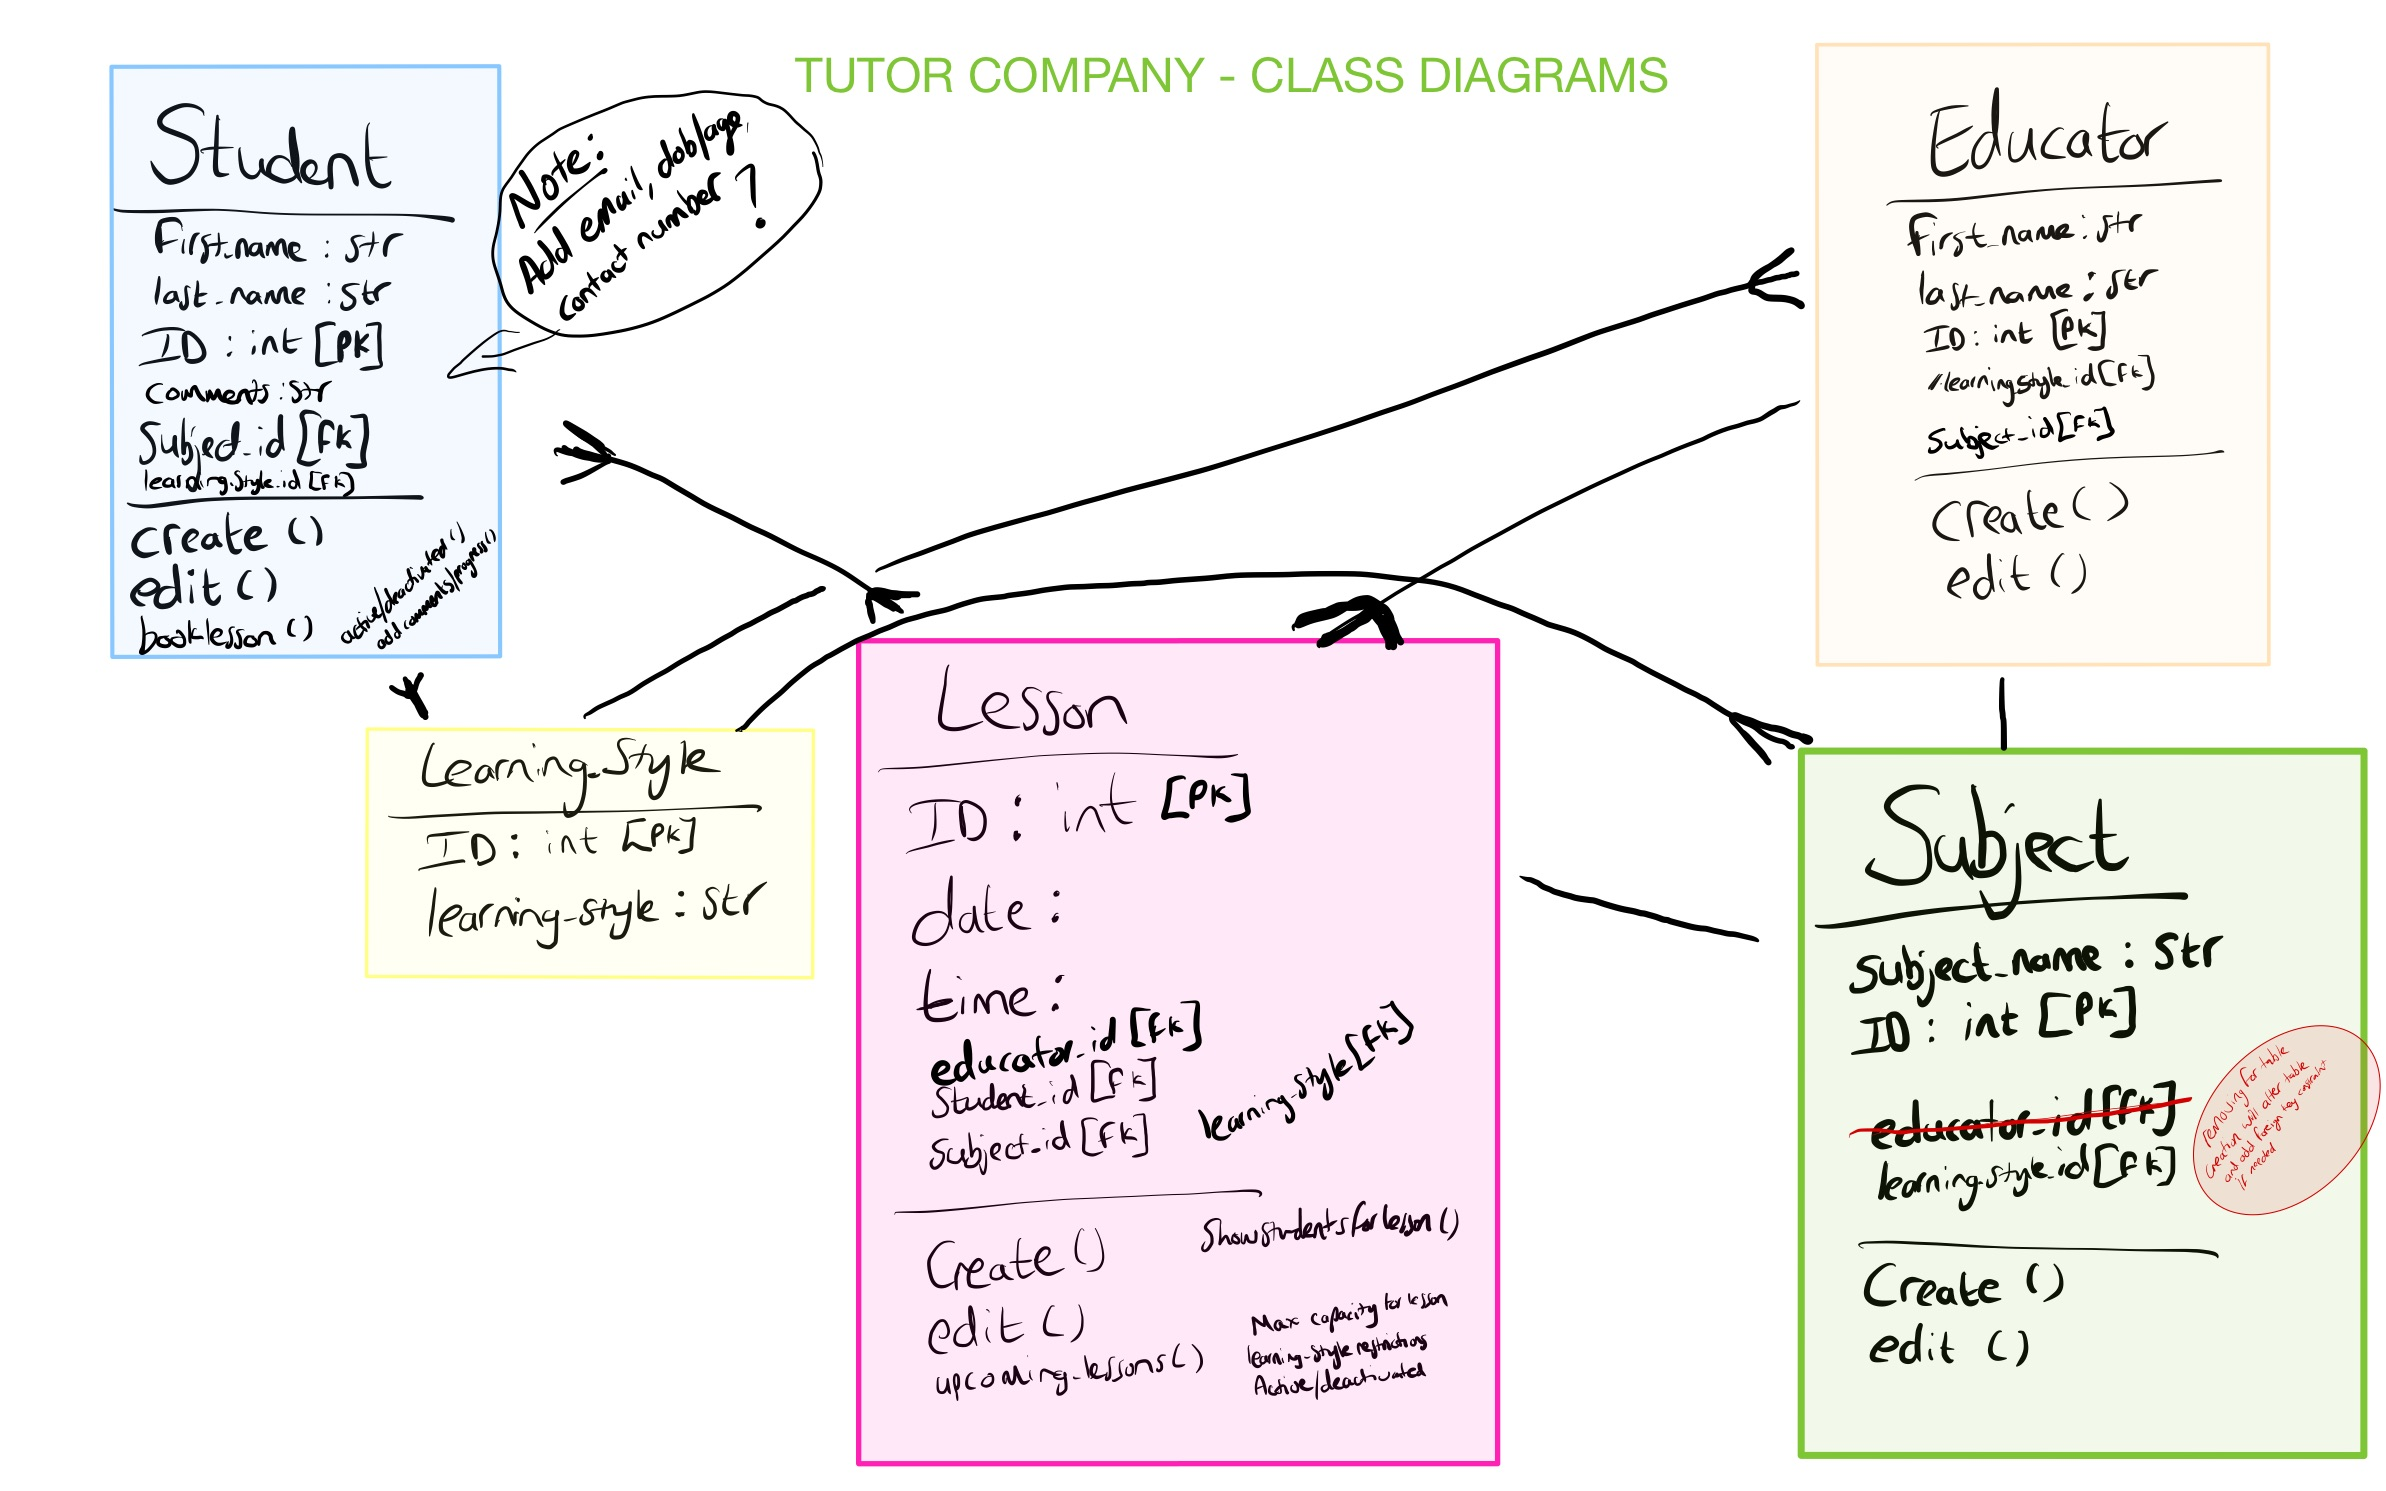
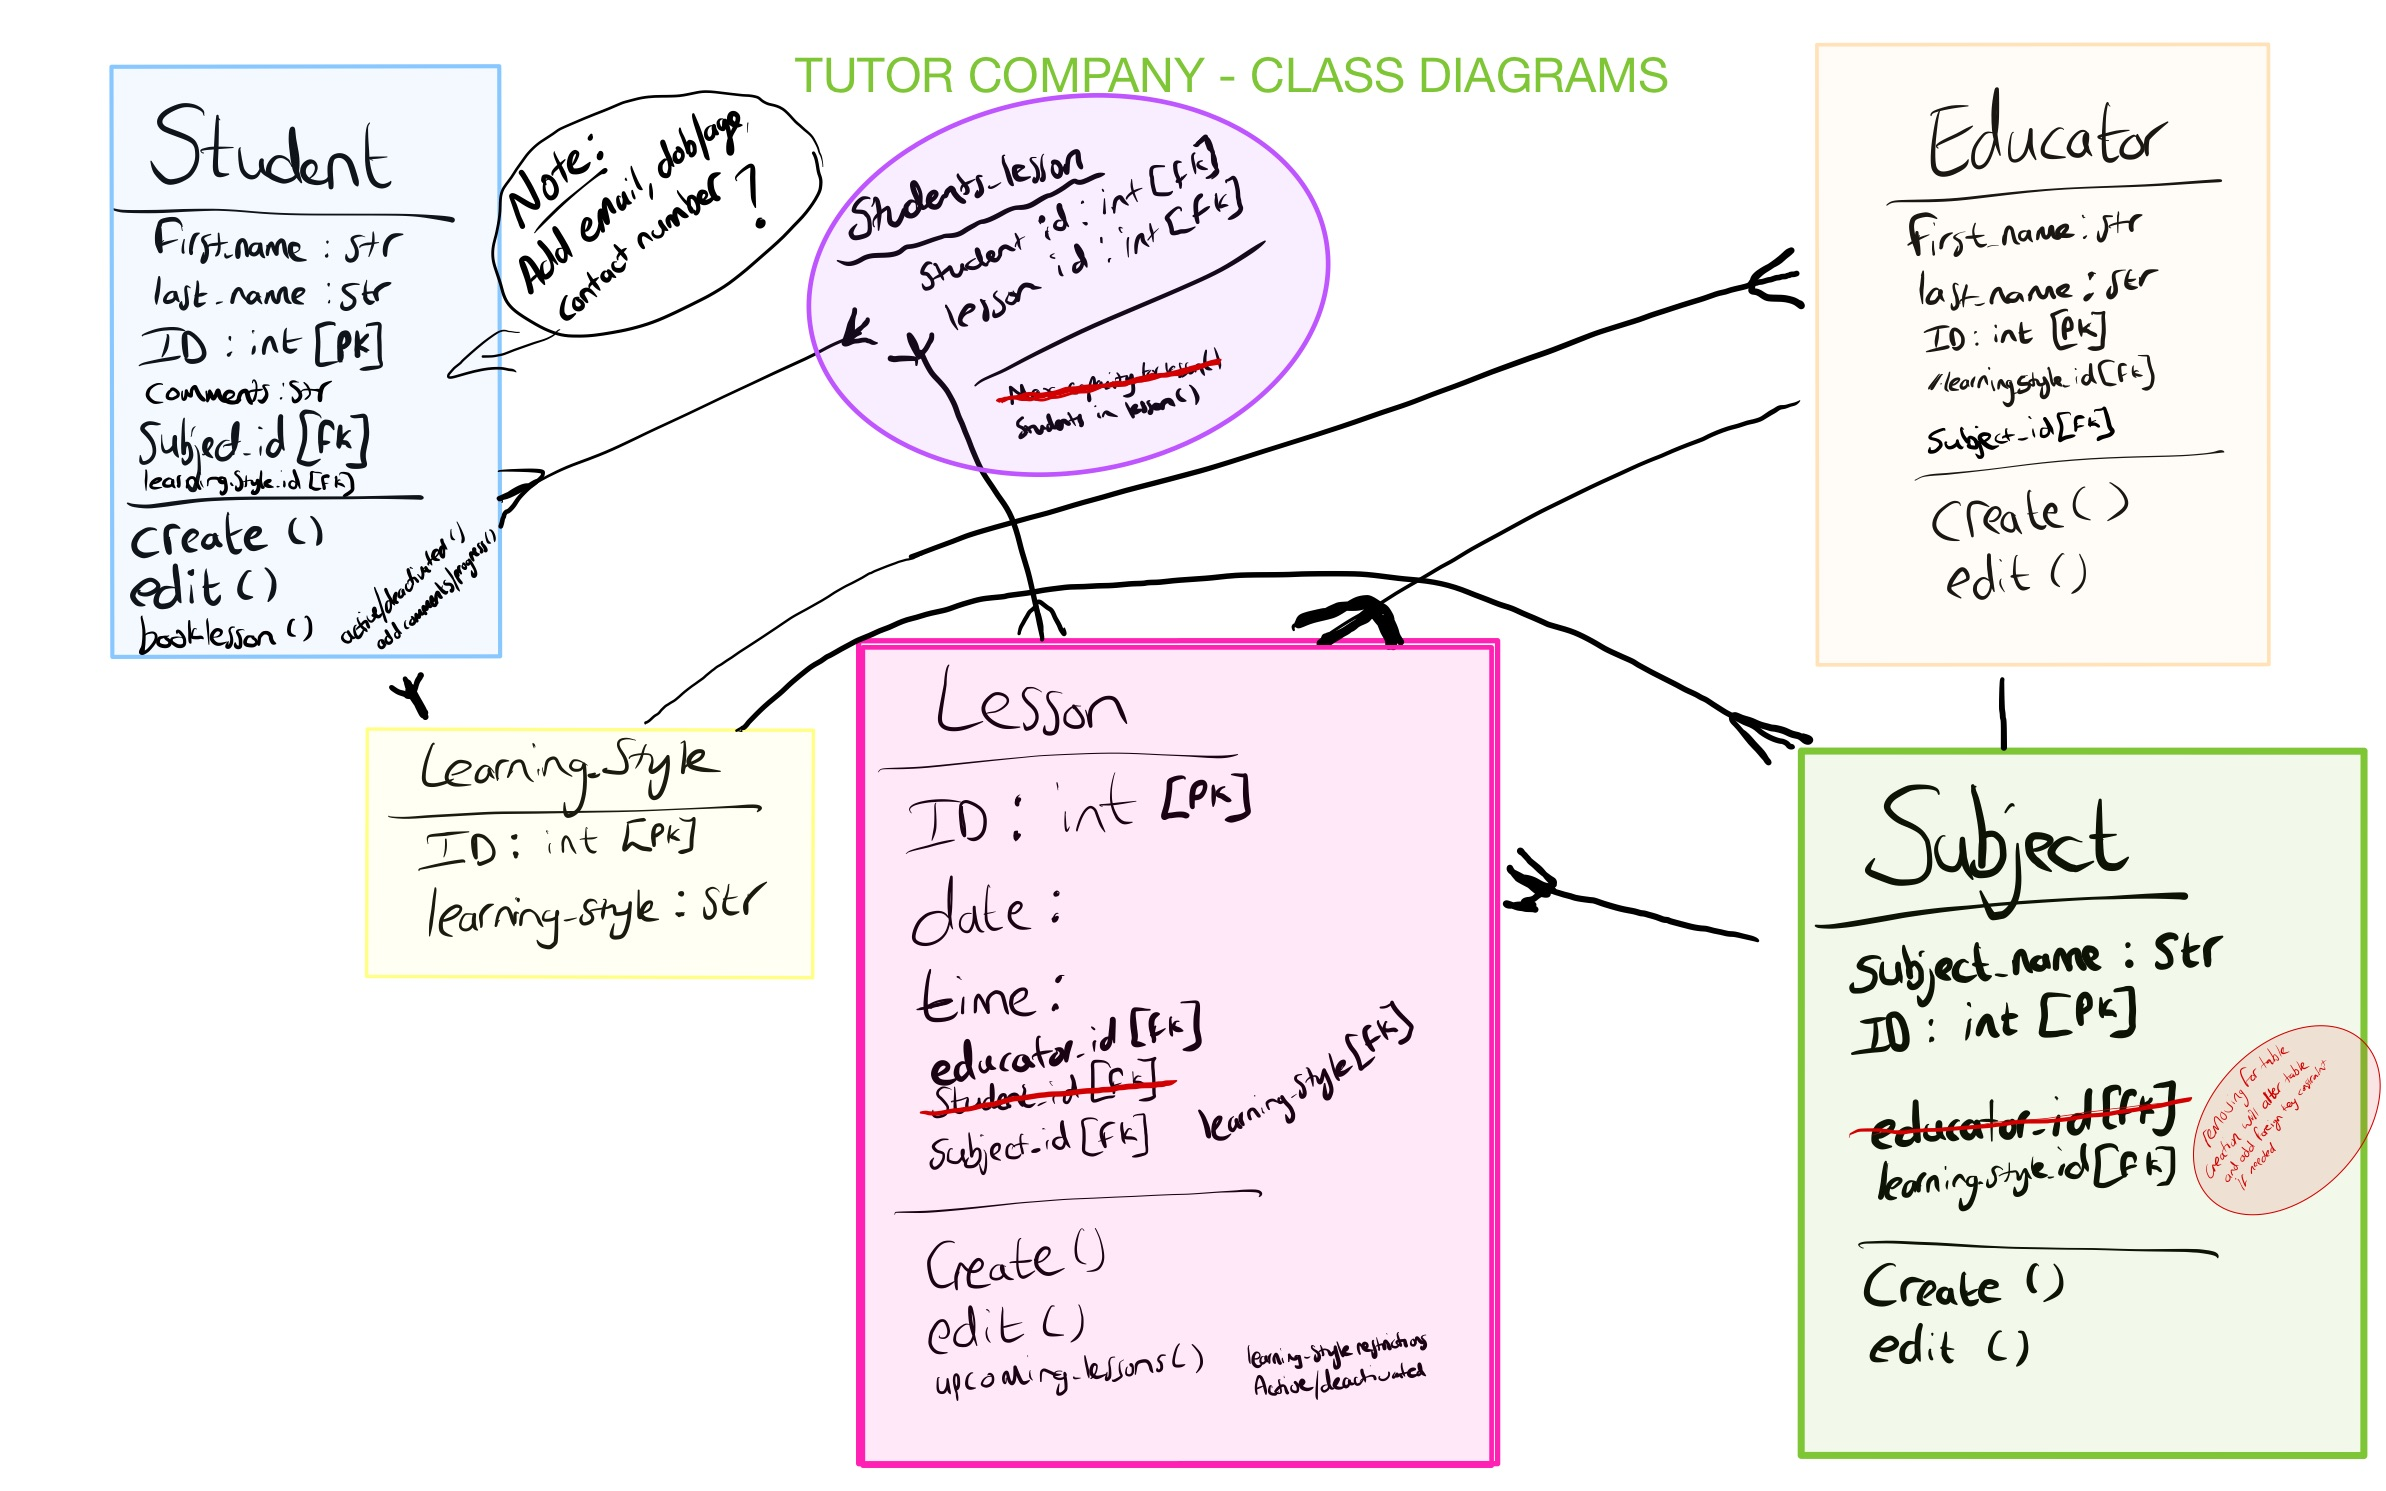
mvp completed

diff --git a/controllers/lesson_controller.py b/controllers/lesson_controller.py
@@ -3,6 +3,7 @@ from flask import Blueprint
 
 from models.lesson import Lesson
 from models.student_in_lesson import StudentInLesson
+from models.learning_style import LearningStyle
 
 import repositories.lesson_repository as lesson_repository
 import repositories.subject_repository as subject_repository
@@ -87,6 +88,28 @@ def student_in_lesson(id):
     students_in_lesson = lesson_repository.students_for_lesson(lesson)
     return render_template("lessons/students_in_lesson.jinja", students_in_lesson=students_in_lesson, lesson=lesson)
 
+@lessons_blueprint.route("/lesson/<id>/students", methods=['GET'])
+def add_student_form(id):
+    lesson=lesson_repository.select(id)
+    students = student_repository.select_all()
+    return render_template("lessons/add_student_to_lesson.jinja", all_students=students, lesson=lesson)
+
+@lessons_blueprint.route("/add_student_to_lesson/<id>", methods=['POST'])
+def add_student_to_lesson(id):
+    lesson = lesson_repository.select(id)
+    student = student_repository.select(request.form['student_id'])
+    #add conditionals - max student count & no duplicates
+    if student.id in [student.id for student in lesson_repository.students_for_lesson(lesson)]:
+        return render_template("lessons/student_already_in_lesson.jinja", student=student, lesson=lesson)
+    if student.learning_style != lesson.learning_style:
+        return render_template("lessons/learning_style_does_not_match.jinja", student=student, lesson=lesson)
+    if len(lesson_repository.students_for_lesson(lesson)) >= 3:
+        return render_template("/lessons/too_many_students.jinja", lesson=lesson)
+    new_student_in_lesson = StudentInLesson(student, lesson, id)
+    student_in_lesson_repository.save(new_student_in_lesson.student.id, new_student_in_lesson.lesson.id)
+    return redirect("/lessons/{}/students_in_lesson".format(id))
+
+    
 
 # Function to display all students in a lesson
 # Select the lesson with the given id
@@ -101,14 +124,6 @@ def student_in_lesson(id):
 # Redirect to the page displaying the students in the lesson
 
 
-# lesson id not coming through/path problems?? // create new controller and path?
-# @lessons_blueprint.route("/lessons/<id>/add_student_to_lesson", methods=['POST'])
-# def add_student_to_lesson(id):
-#     lesson = lesson_repository.select(id)
-#     student = student_repository.select(request.form['student_id'])
-#     new_student_in_lesson = StudentInLesson(student, lesson, id)
-#     student_in_lesson_repository.save(new_student_in_lesson)
-#     return redirect("/lessons/<id>/students_in_class")
 
 
 

diff --git a/console.py b/console.py
@@ -159,12 +159,12 @@ all_lessons = lesson_repository.select_all()
 #     print("over here --->",lesson.subject.subject_name, lesson.date)
 
 # add student to lesson
-student_in_lesson1 = lesson_repository.add_student_to_lesson(student1, lesson1)
+student_in_lesson1 = lesson_repository.add_student_to_lesson(student1.id, lesson1.id)
 # print(student1.first_name, lesson1.id)
 
 
 # select all students for a lesson
-lesson_repository.add_student_to_lesson(student2, lesson1)
+lesson_repository.add_student_to_lesson(student2.id, lesson1.id)
 classlist = lesson_repository.students_for_lesson(lesson1)
 # for student in classlist:
 #     print("over here ---> ", student.first_name)

diff --git a/app.py b/app.py
@@ -5,7 +5,6 @@ from controllers.student_controller import students_blueprint
 from controllers.educator_controller import educators_blueprint
 from controllers.lesson_controller import lessons_blueprint
 from controllers.learning_style_controller import learning_styles_blueprint
-from controllers.student_in_lesson_controller import student_in_lesson_blueprint
 
 app = Flask(__name__)
 
@@ -14,7 +13,6 @@ app.register_blueprint(students_blueprint)
 app.register_blueprint(educators_blueprint)
 app.register_blueprint(lessons_blueprint)
 app.register_blueprint(learning_styles_blueprint)
-app.register_blueprint(student_in_lesson_blueprint)
 
 
 @app.route('/')

diff --git a/controllers/student_controller.py b/controllers/student_controller.py
@@ -68,4 +68,13 @@ def update_student(id):
     student_repository.update(edited_student)
     return redirect('/students')
 
+
+@students_blueprint.route("/students/<id>/search", methods=['GET'])
+def find_student(id):
+    first_name = request.form['first_name']
+    last_name = request.form['last_name']
+    student = Student(first_name, last_name, id)
+    student_repository.search_for_student(student)
+    return redirect('/students/{}'.format(id))
+
 # student search

diff --git a/repositories/student_in_lesson_repository.py b/repositories/student_in_lesson_repository.py
@@ -11,7 +11,7 @@ import repositories.learning_style_repository as learning_style_repository
 
 
 def save(student_id, lesson_id):
-    sql = "INSERT INTO student_in_lesson (student_id, lesson_id) VALUES (%s, %s) RETURNING id"
+    sql = "INSERT INTO students_in_lessons (student_id, lesson_id) VALUES (%s, %s) RETURNING id"
     values = [student_id, lesson_id]
     results = run_sql(sql, values)
     result = results[0]['id']
